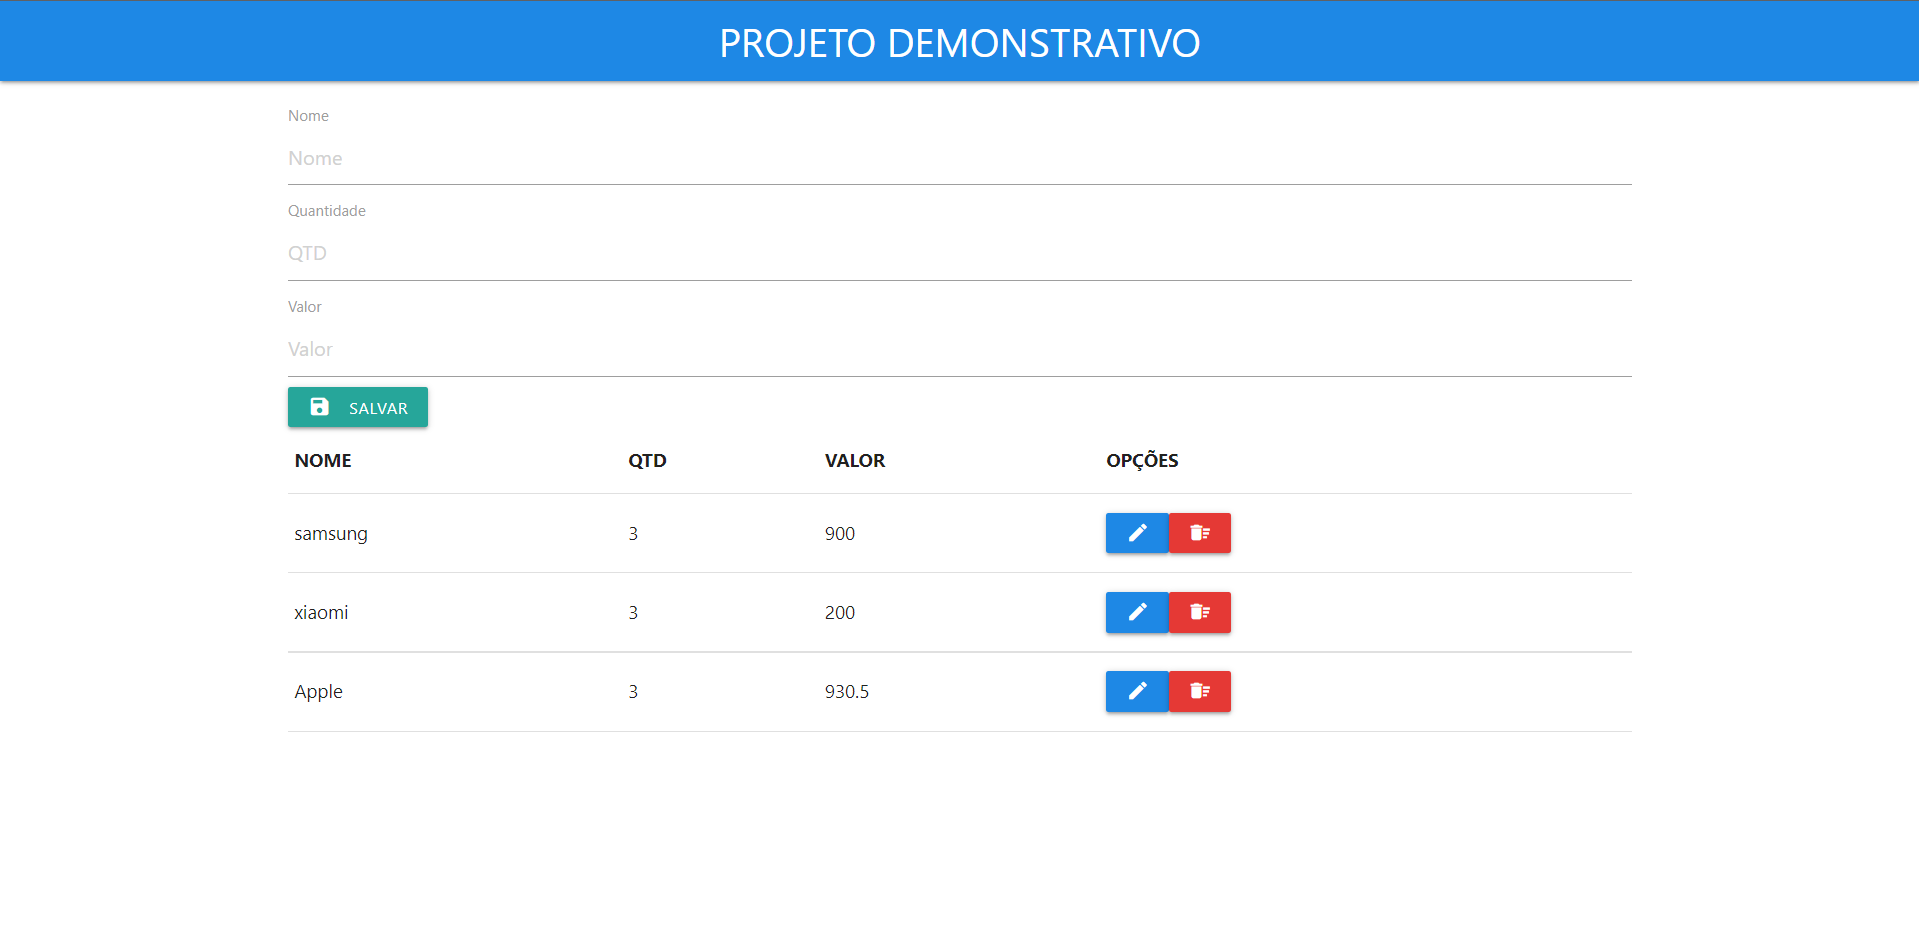
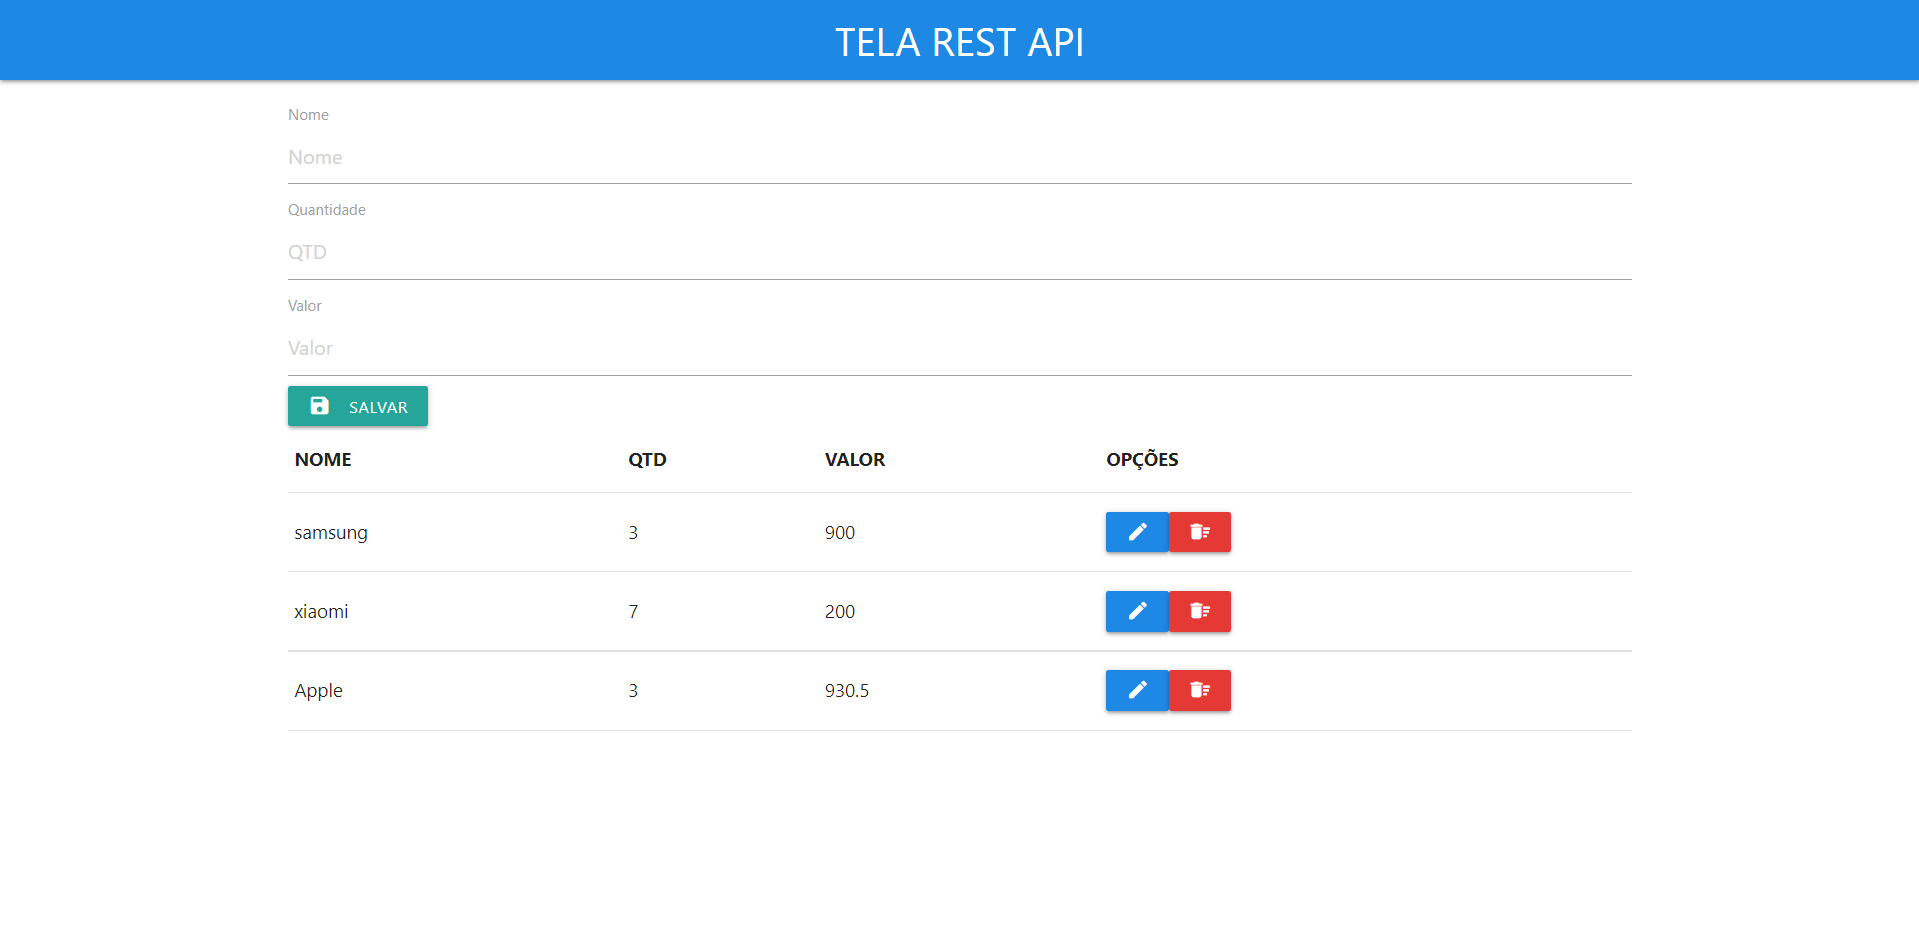
finalizacao

diff --git a/WebAPP/src/App.vue b/WebAPP/src/App.vue
@@ -3,7 +3,7 @@
 
     <nav>
       <div class="nav-wrapper blue darken-1">
-        <a href="#" class="brand-logo center">PROJETO DEMONSTRATIVO</a>
+        <a href="#" class="brand-logo center">TELA REST API</a>
       </div>
     </nav>
 
